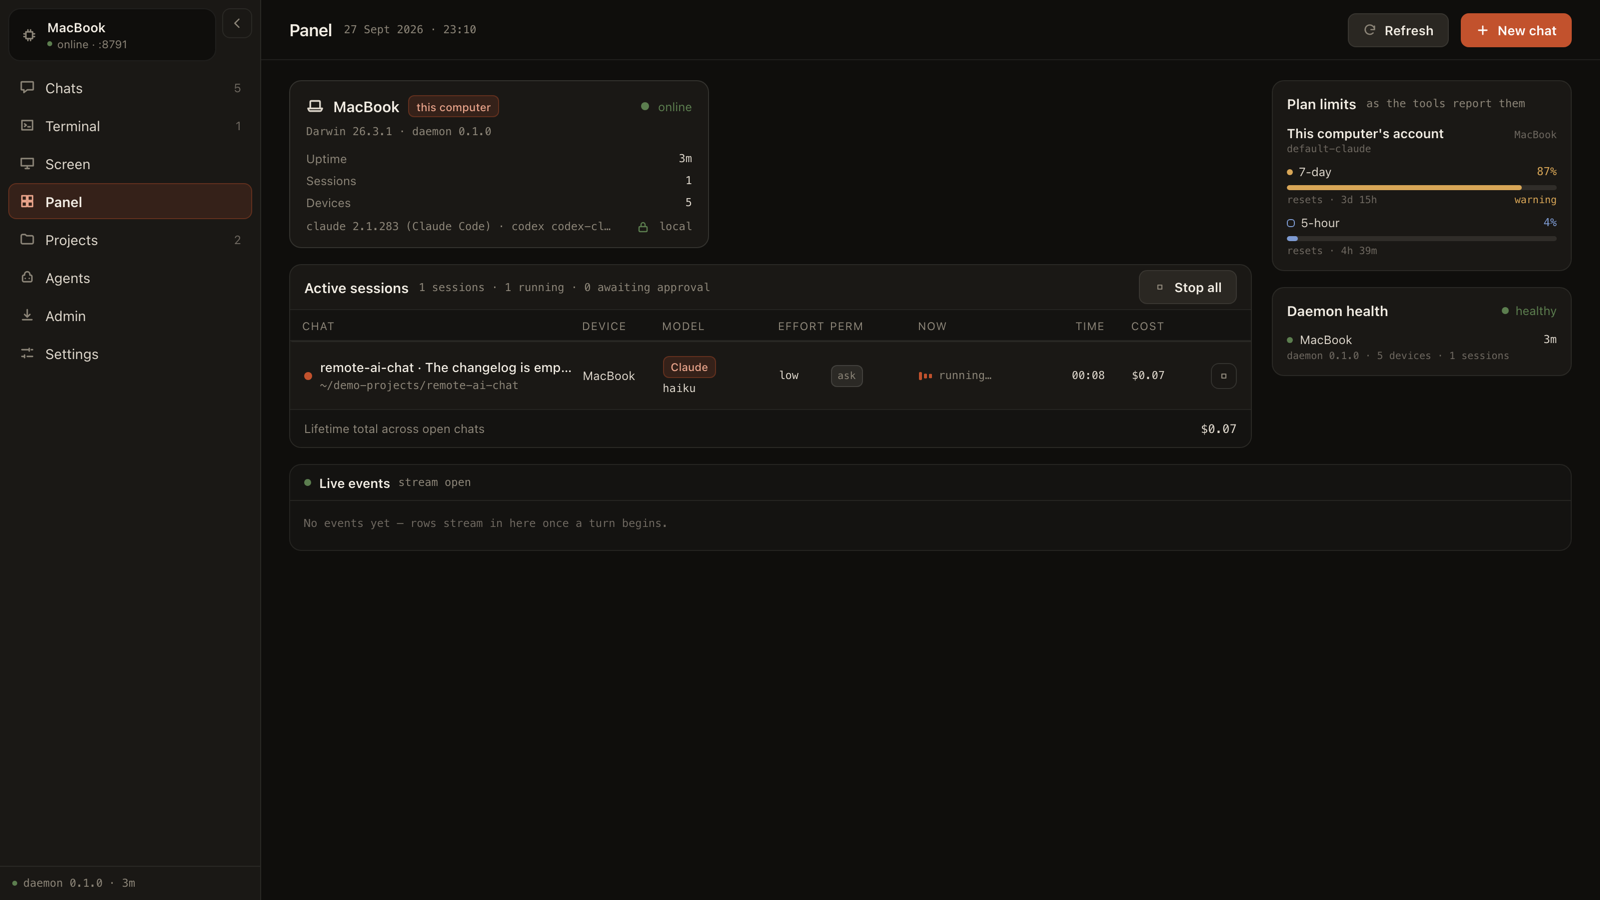
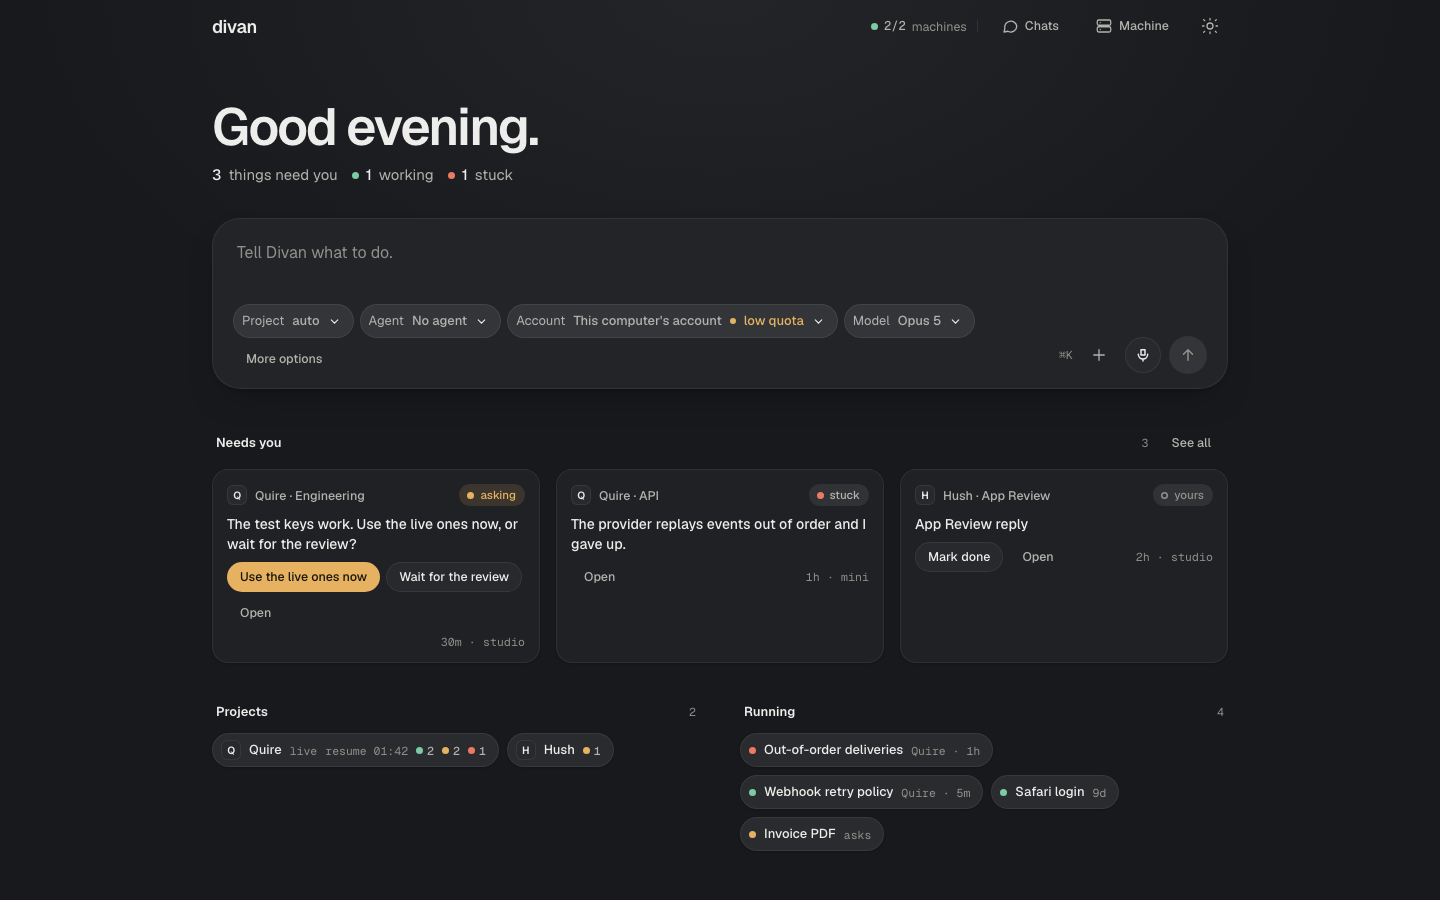
The README opens with the film, and the panel pictures are the panel
The three panel pictures were of the panel before Divan: an orange sidebar
that is no longer there. The dashboard and the chat are now taken from the
current screens by the shot scripts, and Machines has a picture of its own.
Terminal mode keeps the earlier picture until there is a script that draws it.

The film is the first thing on the page. GitHub strips a <video> tag that
points into the repository and draws no player on the file's own page, so the
README shows the last frame with a play button and links to the file, which
sits alone on the `media` branch rather than in every clone of `main`.

The chat harness named a real account and a real project; a published picture
may not, so it says `you@…` and Quire.

diff --git a/web/scripts/machine-page-harness.tsx b/web/scripts/machine-page-harness.tsx
@@ -53,7 +53,7 @@ const log = {
       output: '#41 queued: Refund policy page  (worker opus, verifier opus)', isError: false, running: false },
     { kind: 'user', id: 'u2', ts: NOW - 120, text: 'How did the paywall copy do last week?', attachments: [], queued: false },
     { kind: 'assistant', id: 'a2', ts: NOW - 110, segment: 1, done: true,
-      text: 'The analytics source for babysee is not connected yet, so I cannot give you a real number.' },
+      text: 'The analytics source for Quire is not connected yet, so I cannot give you a real number.' },
   ],
   seq: 5, truncated: false, busy: false, pending: [], loading: false, error: null,
 } as any;
@@ -66,7 +66,7 @@ const page = which === 'chat' ? (
         <span className="dv-meta" style={{ marginLeft: 'auto' }}>Hermes</span>
       </div>
       <ChatView chat={chat({ project_id: 'p-quire', title: 'Refund page' }) as any} hostKey="studio" log={log}
-        groupName={null} groups={[]} accountLabel="yakup@…" accountUsage={0.36} accountLimits={undefined}
+        groupName={null} groups={[]} accountLabel="you@…" accountUsage={0.36} accountLimits={undefined}
         now={NOW} liveTokens={null} liveContext={null} sending={false} filedUnder="Quire"
         tickets={{ open: () => {}, describe: () => ({ column: 'Ice Box', title: 'Refund policy page' }) }}
         onPopOut={() => {}} onSend={() => {}} onInterrupt={() => {}} onRespond={() => {}} onEdit={() => {}}

diff --git a/docs/screenshots/README.md b/docs/screenshots/README.md
@@ -16,9 +16,15 @@ forever, and a real chat list is a list of what somebody is working on.
 | `call.png` | the concierge call, listening | same |
 | `agents.png` | the agents tab | same |
 | `pair.png` | adding a computer | same |
-| `panel-dashboard.png` | the panel's fleet view, one turn running | headless Chrome, 1600×900 |
-| `panel-chat.png` | a chat streaming in the panel, ids in the inspector | same |
-| `panel-terminal.png` | terminal mode: five chats on the wall | same |
+| `panel-dashboard.png` | the panel's dashboard: what needs you, projects, what is running | headless Chrome, 1440 wide, from `web/scripts/shot-dashboard.mjs` |
+| `panel-chat.png` | a chat in the panel | same, from `web/scripts/shot-machine.mjs` |
+| `panel-machine.png` | Machines: two computers, the quota, the executors | same |
+| `panel-terminal.png` | terminal mode: five chats on the wall | the earlier panel, 1600×900 |
+| `film.png` | the last frame of the film, with a play button drawn on it | 1280×720 |
+
+The film itself is not on `main`: 8 MB of video does not belong in every
+clone. It is the only file on the `media` branch, and the README links to it
+there.
 
 ## What is not here, and why
 
@@ -84,7 +90,10 @@ cd web && npm install && npm run build
 RAC_HOME=/tmp/rac-demo .venv312/bin/remote-ai-chat web     # prints a URL with a token in the fragment
 ```
 
-Open that URL at 1600×900 and screenshot the page. The token rides in the
+The dashboard, chat and Machines pictures do not need a daemon at all: the
+`shot-*.mjs` scripts in `web/scripts` draw the screens from made-up data and
+leave the pictures in the folder they are given. For anything else, open that
+URL at 1600×900 and screenshot the page. The token rides in the
 fragment and the panel wipes it out of the address bar, but check the picture
 anyway before committing it.
 

diff --git a/README.md b/README.md
@@ -8,6 +8,14 @@ the actual `claude` or `codex` process on your machine, in your repo, signed in
 with your own account, reached over your own private network.
 
 <p align="center">
+  <a href="https://github.com/yakubilik/divan/raw/media/divan-film.mp4">
+    <img src="docs/screenshots/film.png" width="760" alt="The film: Divan in 93 seconds">
+  </a>
+  <br>
+  <sub><a href="https://github.com/yakubilik/divan/raw/media/divan-film.mp4">Watch the film</a> · 93 seconds, with sound</sub>
+</p>
+
+<p align="center">
   <img src="docs/screenshots/chat.png" width="250" alt="A chat: the agent has read a file and answered">
   <img src="docs/screenshots/approval.png" width="250" alt="An approval: rm -rf waiting for a decision">
   <img src="docs/screenshots/chats.png" width="250" alt="The chat list, grouped by project">
@@ -61,9 +69,11 @@ The phone talks to one computer at a time. The panel talks to **all of them at
 once** — the answer to "what is running where". It ships with the daemon; no
 separate server.
 
-![The desktop panel](docs/screenshots/panel-dashboard.png)
+![The panel's dashboard: what needs you, what is running](docs/screenshots/panel-dashboard.png)
 
 ![A chat in the panel](docs/screenshots/panel-chat.png)
+
+![Machines: which computers are reachable, and how much of the plan is left](docs/screenshots/panel-machine.png)
 
 And terminal mode, for the other question — not "what have I got" but "what is
 happening". Every chat drawn as the terminal window it would be, on a wall you
